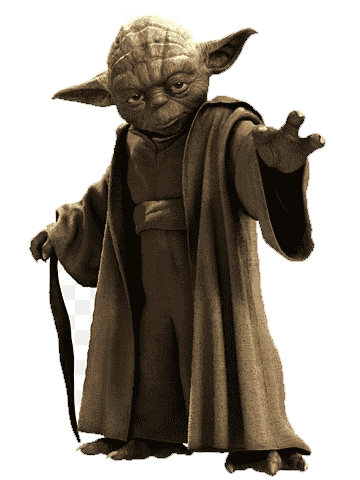
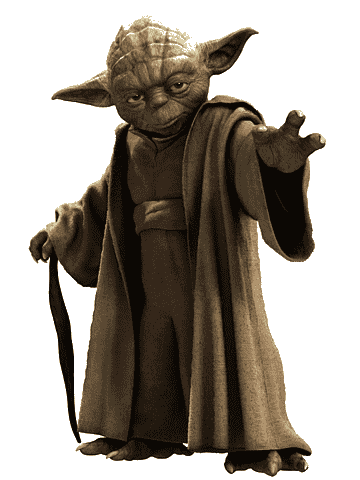
yoda2.png: full bg removal, zero light pixels — v4 cache bust in HTML

diff --git a/index.html b/index.html
@@ -2449,7 +2449,7 @@
     <!-- ЙОДА -->
     <div style="background:var(--bg3);border:1px solid rgba(240,112,0,.3);border-radius:14px;padding:16px 12px;text-align:center;position:relative;overflow:hidden;">
       <div style="position:absolute;top:0;left:0;right:0;height:3px;background:linear-gradient(90deg,var(--accent),#f59e0b);"></div>
-      <img src="yoda2.png" alt="Йода" style="width:72px;height:90px;object-fit:contain;object-position:top;margin:0 auto 8px;display:block;filter:drop-shadow(0 4px 12px rgba(240,112,0,.3));">
+      <img src="yoda2.png?v=4" alt="Йода" style="width:72px;height:90px;object-fit:contain;object-position:top;margin:0 auto 8px;display:block;filter:drop-shadow(0 4px 12px rgba(240,112,0,.3));">
       <div style="font-size:13px;font-weight:800;">Йода</div>
       <div style="font-size:10px;color:var(--accent);font-weight:700;margin-top:2px;">CMO · Growth</div>
       <div style="font-size:9px;color:var(--muted);margin-top:4px;">/yoda</div>
@@ -5534,7 +5534,7 @@
     <div class="yoda-quote">«Зростати DriveMe мусить. Сила в даних є.»</div>
     <div class="yoda-role">Йода · CMO · Head of Growth · /yoda</div>
   </div>
-  <img src="yoda2.png" alt="Йода">
+  <img src="yoda2.png?v=4" alt="Йода">
 </div>
 
 </body>
